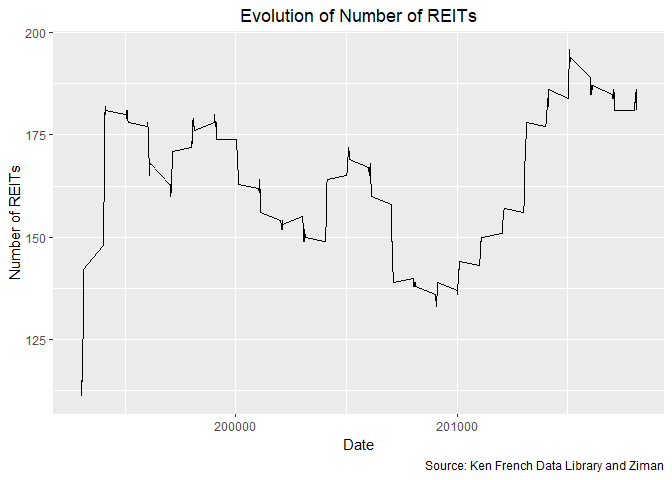
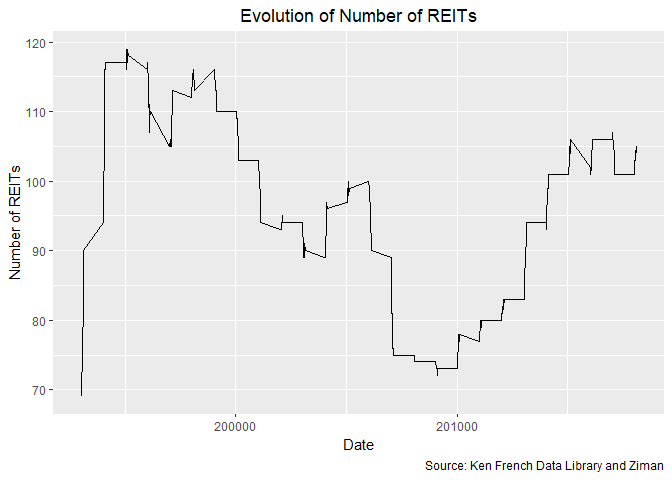
Update of the Beta Calculations

diff --git a/Betas.md b/Betas.md
@@ -16,15 +16,15 @@ First, I would only choose the ones with more than 3 years worth of data (at lea
     ##   isREIT    days_stocks
     ##   <fct>           <int>
     ## 1 non-REITs     1496878
-    ## 2 REITs           49055
+    ## 2 REITs           29022
 
     ## # A tibble: 2 x 2
     ##   isREIT    stocks
     ##   <fct>      <int>
     ## 1 non-REITs  11503
-    ## 2 REITs        361
+    ## 2 REITs        208
 
-There are 1,496,878 usable non-REITs day&returns and 49,055 usable REITs day&returns. They are from 11,503 non-REITs stocks and 361 REITs stocks.
+There are 1,496,878 usable non-REITs day&returns and 29,022 usable REITs day&returns. They are from 11,503 non-REITs stocks and 208 REITs stocks.
 
 I will apply all the available data for each asset to calculate the asset beta here. The model used is Fama French 5 Factor model.
 
@@ -446,15 +446,15 @@ Second, I would only choose the ones with more than 4 years worth of data (at le
     ##   isREIT    days_stocks
     ##   <fct>           <int>
     ## 1 non-REITs     1438238
-    ## 2 REITs           47098
+    ## 2 REITs           28000
 
     ## # A tibble: 2 x 2
     ##   isREIT    stocks
     ##   <fct>      <int>
     ## 1 non-REITs  10085
-    ## 2 REITs        314
+    ## 2 REITs        183
 
-There are 1,438,238 usable non-REITs day&returns and 47,098 usable REITs day&returns. They are from 10,085 non-REITs stocks and 314 REITs stocks.
+There are 1,438,238 usable non-REITs day&returns and 28,000 usable REITs day&returns. They are from 10,085 non-REITs stocks and 183 REITs stocks.
 
 I will apply all the available data for each asset to calculate the asset beta here. The model used is Fama French 5 Factor model.
 
@@ -874,15 +874,15 @@ Second, I would only choose the ones with more than 5 years worth of data (at le
     ##   isREIT    days_stocks
     ##   <fct>           <int>
     ## 1 non-REITs     1364749
-    ## 2 REITs           44560
+    ## 2 REITs           26423
 
     ## # A tibble: 2 x 2
     ##   isREIT    stocks
     ##   <fct>      <int>
     ## 1 non-REITs   8714
-    ## 2 REITs        266
+    ## 2 REITs        153
 
-There are 1,364,749 usable non-REITs day&returns and 44,560 usable REITs day&returns. They are from 8,714 non-REITs stocks and 266 REITs stocks.
+There are 1,364,749 usable non-REITs day&returns and 26,423 usable REITs day&returns. They are from 8,714 non-REITs stocks and 153 REITs stocks.
 
 I will apply all the available data for each asset to calculate the asset beta here. The model used is Fama French 5 Factor model.
 
@@ -1298,4 +1298,4 @@ Number of REITs at each month
 
 ![](Betas_files/figure-markdown_github/unnamed-chunk-19-1.png)
 
-One way to tackle the unbalanced panel problem is to pick the stocks to form a balanced panel. However, this would result in a survivorship bias. I will check the IV-GMM method for alternative solution.
+It seems that there are 70 REITs. At most, there are 120 REITs.
